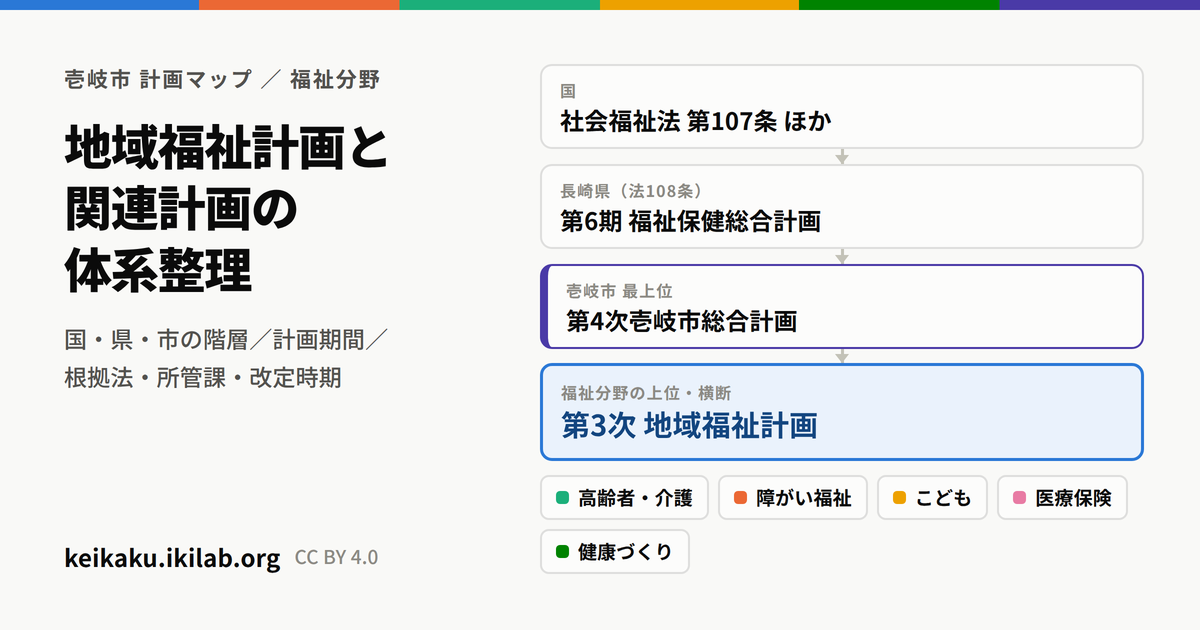
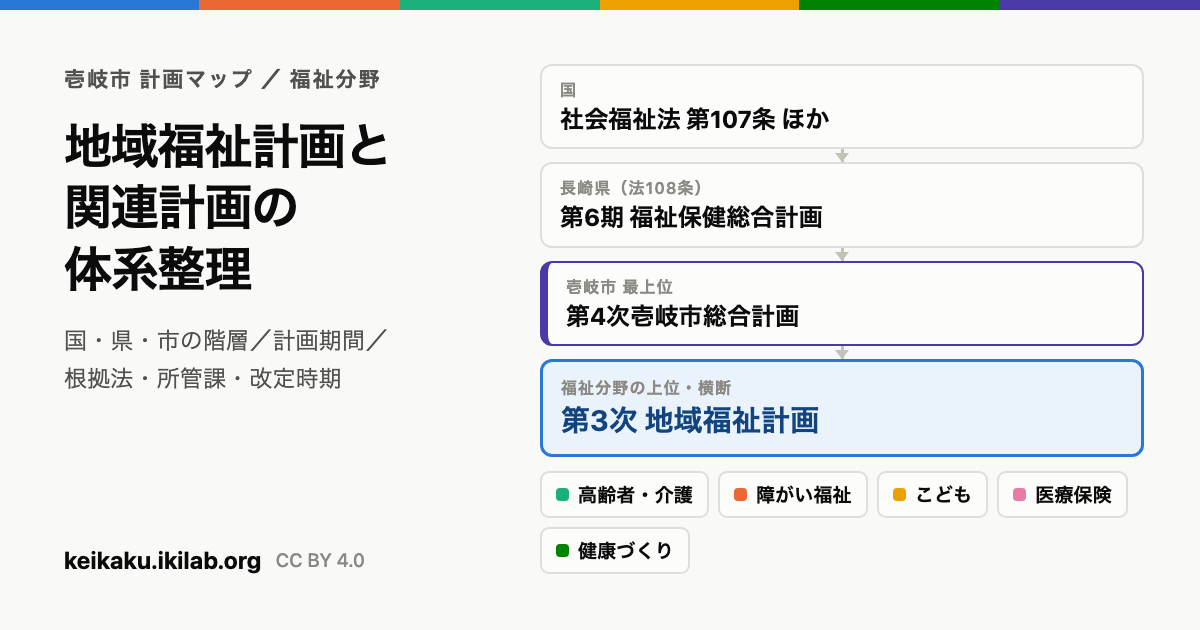
介護保険ページの呼称統一と、断定的な文言の見直し
呼称を「第7期・第8期の検証」に統一。同一ページに「第7・8期」
「第7期・第8期」「第7〜9期」の3系統が混在していた。検証対象は
第7期・第8期で、第9期は実績の出典および帰結として登場するため、
「第7〜9期」は検証範囲を過大に見せていた。URLは公開済みのため
/plans/kaigo-7-9/ のまま。OG画像も再生成。

あわせて、原因の断定や評価と読める表現を10箇所直した。とくに
「特定施設の給付費は…と低調」は壱岐市立老人ホーム1施設に紐づき
事業所の運営評価と読めるため、DISCLAIMER.md の方針に沿って
計画比の数値の提示に改めた。「周知手法そのものが機能していない」
「どう評価するかが問われます」も、公開資料では特定できない因果の
断定だったため、検討材料と要因分析の提案に改めた。

.gitignore を追加し、OG画像生成にだけ使う playwright の
ローカル環境を追跡しないようにした。

diff --git a/plans/kaigo-7-9/index.html b/plans/kaigo-7-9/index.html
@@ -3,7 +3,7 @@
 <head>
 <meta charset="utf-8">
 <meta name="viewport" content="width=device-width, initial-scale=1">
-<title>壱岐市 介護保険事業計画 第7・8期の検証 | 壱岐市 計画マップ</title>
+<title>壱岐市 介護保険事業計画 第7期・第8期の検証 | 壱岐市 計画マップ</title>
 <meta name="description" content="長崎県壱岐市の介護保険事業計画 第7期（H30〜R2）・第8期（R3〜R5）について、計画の前提条件と立案内容を、後継計画・決算・厚生労働省統計に表れた実績と突き合わせて検証。認定者数の推計精度、給付費の計画差、施設整備の実現状況、事業目標の達成率、保険料と準備基金の動き。">
 <link rel="canonical" href="https://keikaku.ikilab.org/plans/kaigo-7-9/">
 <meta property="og:type" content="article">
@@ -172,7 +172,7 @@ footer a{border-bottom-color:var(--grid)}
     <div class="tile"><div class="v">±0<small>円</small></div><div class="k">第9期の保険料<br>6,490円で<b>据置き</b>（第8期と同額）</div></div>
     <div class="tile"><div class="v">0<small>円</small></div><div class="k">認知症対応型通所介護の給付実績<br>第7期に整備を計画したが<b>6年間ゼロ</b></div></div>
   </div>
-  <p class="sub" style="margin-top:16px">両期を通じて見えるのは、<b>①認定者数の見通しが両期とも外れた（第7期は減ると見て増え、第8期は増えると見て減った）</b>、<b>②総額の給付費は±5%に収まるがサービス別の乖離は大きい</b>、<b>③離島ゆえに立ち上がらないサービスが固定化している</b>、<b>④財政は保守的に設計され結果的に基金が積み上がり第9期の据置きにつながった</b>、<b>⑤体制整備系の目標は達成できても住民への浸透系の目標は計画倒れになりやすい</b>、の5点です。</p>
+  <p class="sub" style="margin-top:16px">両期を通じて見えるのは、<b>①認定者数は両期とも計画値と実績が逆方向に乖離した（第7期は減少見込みに対し実績は横ばい〜微増、第8期は増加見込みに対し実績は横ばい〜微減）</b>、<b>②総額の給付費は±5%に収まるがサービス別の乖離は大きい</b>、<b>③離島ゆえに立ち上がらないサービスが固定化している</b>、<b>④財政は保守的に設計され結果的に基金が積み上がり第9期の据置きにつながった</b>、<b>⑤体制整備系の目標は達成される一方、住民への浸透を測る目標は達成率が低い</b>、の5点です。</p>
 </section>
 
 <!-- 2. 前提条件 -->
@@ -191,7 +191,7 @@ footer a{border-bottom-color:var(--grid)}
       <tr><td class="k">ニーズ調査</td><td>介護予防・日常生活圏域ニーズ調査（H29.8、郵送1,500件／回収797件・<b>53.0%</b>）＋在宅介護実態調査（H28.12〜H29.3、347件・100%）</td><td>同ニーズ調査（R2.8〜9、郵送1,498件／回収762件・<b>50.9%</b>）＋在宅介護実態調査（R元.10〜R2.3、386件・100%）</td></tr>
       <tr><td class="k">調査で見えた課題</td><td>近隣への相談は15%前後にとどまる／地域活動への参加意向47.9%に対し世話役意向27.5%／介護しながら就労33.5%</td><td>認知症の相談窓口を知っている <b>27.6%</b>／地域包括ケアシステムを「言葉も内容も知っている」<b>22.2%</b>／ほとんど外出しない16.5%</td></tr>
       <tr><td class="k">コロナの織り込み</td><td>―</td><td>計画本文に「新型コロナ」の語は<b>一度も登場しない</b>。議会説明で「コロナと令和2年7月豪雨を受け、平時からの災害・感染症対策を追加」と説明され、施策として新設された。給付費推計への織り込みは確認できず</td></tr>
-      <tr><td class="k">積み残しの課題</td><td>養護老人ホーム（定員110）の入所待機 <b>208人</b>（H28年度末）／認知症対策・在宅医療連携・介護離職</td><td>同待機 <b>223人</b>（R元年度末、悪化）／介護人材不足／二次離島 三島地区（高齢化率<b>46.9%</b>）への事業者参入困難</td></tr>
+      <tr><td class="k">積み残しの課題</td><td>養護老人ホーム（定員110）の入所待機 <b>208人</b>（H28年度末）／認知症対策・在宅医療連携・介護離職</td><td>同待機 <b>223人</b>（R元年度末、15人増）／介護人材不足／二次離島 三島地区（高齢化率<b>46.9%</b>）への事業者参入困難</td></tr>
       <tr><td class="k">保険料算定の諸元</td><td>総給付費見込 9,983百万円／第1号負担割合 23%／<b>基金取崩し 60百万円</b>／予定収納率 <b>98.55%</b>／補正被保険者数 23,577人</td><td>事業費見込 10,804百万円／23%／<b>基金取崩し 23百万円（残高全額）</b>／予定収納率 <b>99.07%</b>／補正被保険者数 24,772人</td></tr>
       <tr><td class="k">保険料基準額</td><td><b>月6,145円</b>（年73,700円）・9段階<br><span class="mut">第6期5,262円から +883円 / +16.8%</span></td><td><b>月6,490円</b>（年77,800円）・9段階<br><span class="mut">第7期から +345円 / +5.6%</span></td></tr>
     </tbody>
@@ -242,8 +242,8 @@ footer a{border-bottom-color:var(--grid)}
     <h2>Ⅲ. 結果どうなったか</h2>
   </div>
 
-  <h3>① 認定者数 ― 両期とも見通しを外している</h3>
-  <p class="sub">第7期は「減少」を見込んだが実績は横ばい〜微増。第8期は「増加・認定率23.4%へ」を見込んだが実績は22%台で横ばい〜微減。人口推計はおおむね当たっているのに、<b>認定率の見通しが両方向にぶれている</b>。</p>
+  <h3>① 認定者数 ― 計画値と実績が両期とも逆方向に乖離</h3>
+  <p class="sub">第7期は「減少」を見込んだが実績は横ばい〜微増。第8期は「増加・認定率23.4%へ」を見込んだが実績は22%台で横ばい〜微減。人口推計はおおむね実績に近い一方、<b>乖離の方向が期によって逆になっている</b>。</p>
   <div class="chart" id="ch1"></div>
   <div class="legend">
     <span><i style="background:var(--c1)"></i>実績（介護保険事業状況報告）</span>
@@ -295,7 +295,7 @@ footer a{border-bottom-color:var(--grid)}
   </table></div>
   <p class="cap">市議会での公式説明 ── 令和4年度「新型コロナにおける2回にわたる感染の大きな波により訪問通所サービス及びショートステイの利用控えや受入れ自粛が大きく影響」／令和5年度「感染症法上の5類に移行して行動制限等がなくなったことから利用者が増え増額」。</p>
 
-  <h3>③ 施設整備 ― 「作ったもの」と「作れなかったもの」</h3>
+  <h3>③ 施設整備 ― 「実現したもの」と「実現しなかったもの」</h3>
   <div class="tblwrap"><table>
     <thead><tr><th style="min-width:220px">計画された整備</th><th>期</th><th style="min-width:290px">結果</th><th>判定</th></tr></thead>
     <tbody>
@@ -305,16 +305,16 @@ footer a{border-bottom-color:var(--grid)}
       <tr><td class="k">通所介護 定員12名増</td><td class="nw">第7期</td><td>給付費は3年とも計画割れ（93.6%→83.0%→72.8%）。定員増の効果は給付費に表れていない</td><td><span class="pill w">効果不明</span></td></tr>
       <tr><td class="k">介護医療院（見込量0で計上）</td><td class="nw">第7期</td><td>計画0円に対し H30 3,162／R元 10,924／R2 15,542千円の実績。裏側で介護療養型医療施設が計画比16〜32%に急減。<b>計画に織り込んでいない転換が起きた</b></td><td><span class="pill w">計画外</span></td></tr>
       <tr><td class="k">新規整備なし（既存事業の充実）</td><td class="nw">第8期</td><td>方針どおり新規整備なし</td><td><span class="pill g">計画どおり</span></td></tr>
-      <tr><td class="k">壱岐市立老人ホームの<br>一般型特定施設への移行（R5.4）</td><td class="nw">第8期</td><td>実現の有無を公表資料から確認できず。特定施設入居者生活介護の給付費は R3 80.5%・R4 75.7%と低調</td><td><span class="pill w">確認できず</span></td></tr>
+      <tr><td class="k">壱岐市立老人ホームの<br>一般型特定施設への移行（R5.4）</td><td class="nw">第8期</td><td>実現の有無を公表資料から確認できず。特定施設入居者生活介護の給付費は計画比 R3 80.5%・R4 75.7%（移行が未実施であれば、計画値を下回るのは前提どおり）</td><td><span class="pill w">確認できず</span></td></tr>
     </tbody>
   </table></div>
   <p class="cap">給付費実績が一貫して0円＝市内に事業所がないサービス：認知症対応型通所介護、小規模多機能型居宅介護、看護小規模多機能型居宅介護、地域密着型介護老人福祉施設、地域密着型特定施設。第9期でようやく<b>令和8年度に小規模多機能型居宅介護を公募整備し令和9年度サービス開始</b>を掲げた。</p>
 
-  <h3>④ 事業目標の達成状況 ― 体制は整うが、住民への浸透は届かない</h3>
+  <h3>④ 事業目標の達成状況 ― 体制整備の目標は達成、住民への浸透を測る目標は未達</h3>
   <p class="sub">第8期計画が令和5年度に置いた目標値と、第9期計画に載った令和5年度実績見込の比較。</p>
   <div id="ach"></div>
   <p class="cap">縦線＝目標値（100%）。年12枚→6枚に縮小した入湯優待券など、制度自体を変更した指標は比較対象から除外。</p>
-  <p class="sub" style="margin-top:12px">傾向は明快で、<b>認知症カフェの設置・介護予防教室の開催・ケアマネ支援といった「行政が直接やること」は目標を超え、サポーター養成・認知機能チェック・医療連携の連絡票といった「市民や関係機関を巻き込むこと」は大幅未達</b>。実際、ニーズ調査の「認知症の相談窓口を知っている」は第8期策定時の27.6%から<b>25.8%へ低下</b>しています（地域包括ケアシステムの認知度は22.2%→27.8%と改善）。</p>
+  <p class="sub" style="margin-top:12px">傾向は明快で、<b>認知症カフェの設置・介護予防教室の開催・ケアマネ支援といった「行政が直接やること」は目標を超え、サポーター養成・認知機能チェック・医療連携の連絡票といった「市民や関係機関を巻き込むこと」は目標値を大きく下回る</b>。実際、ニーズ調査の「認知症の相談窓口を知っている」は第8期策定時の27.6%から<b>25.8%へ低下</b>しています（地域包括ケアシステムの認知度は22.2%→27.8%と改善）。</p>
 
   <h3>⑤ 財政 ― 保守的な設計が第9期の据置きを生んだ</h3>
   <div class="tblwrap"><table>
@@ -336,13 +336,13 @@ footer a{border-bottom-color:var(--grid)}
     <p class="sub">第9期は令和8年度末で満了。令和8年度中の改定作業で扱うことになる論点。</p>
   </div>
   <ol class="notes">
-    <li><span class="tag a">再発</span><b>認定者数の推計精度。</b>第7期は減少を見込んで実績が上回り（対計画103〜106%）、第8期は増加を見込んで実績が下回った（97〜99%）。人口推計自体は実績に近いので、ぶれているのは<b>認定率の見通し</b>です。第9期がどう置いたかを検証したうえで、直近の22%台前半での横ばいという実績をどう反映するかが焦点になります。</li>
+    <li><span class="tag a">再発</span><b>認定者数の推計精度。</b>第7期は減少を見込んで実績が上回り（対計画103〜106%）、第8期は増加を見込んで実績が下回った（97〜99%）。人口推計自体は実績に近いので、乖離しているのは<b>認定率の見通し</b>です。第9期がどう置いたかを検証したうえで、直近の22%台前半での横ばいという実績をどう反映するかが焦点になります。</li>
     <li><b>「整備を計画したが立ち上がらないサービス」の扱い。</b>認知症対応型通所介護は第7期で定員12名の開始を計画しながら6年間ゼロ。小規模多機能・看多機・地域密着型特養も一貫してゼロで、離島ゆえに事業者が参入しない構造が固定化しています。第9期が令和8年度に小規模多機能の公募整備を掲げているので、<b>その公募が成立するかどうか</b>が次期計画の前提を左右します。</li>
     <li><b>コロナ期の給付費実績をどう扱うか。</b>第8期の実績はR3・R4がコロナで押し下げられ、R5に反動増しています。この3年を素直にトレンドとして使うと次期の見込量を過小に見積もるおそれがあり、<b>どの年度を基準線に置くかの判断</b>が必要です。</li>
-    <li><b>啓発・普及型の目標設定の見直し。</b>認知症サポーター養成400人に対し実績150人、医療予防連携の連絡票15件に対し1件など、住民・関係機関を巻き込む目標が大幅未達です。目標値の置き方（そもそも過大でなかったか）と、達成手段の設計の両面を見直す余地があります。認知症の相談窓口の認知度が27.6%→25.8%へ低下している点は、周知手法そのものが機能していないことを示唆します。</li>
-    <li><b>養護老人ホームの待機者対策。</b>定員110に対し待機208人（H28年度末）→223人（R元年度末）と悪化し、第8期が掲げた一般型特定施設への移行（R5.4開始目標）の実現も公表資料では確認できません。第10期に持ち越すなら、まず現状の到達点を確認する必要があります。</li>
-    <li><b>認定率が県平均より約3ポイント高い理由の分析。</b>調整済み認定率でも軽度＋0.6pt・重度＋0.4ptと県を上回っています。第7期が「自立支援・重度化防止に向けた取組を推進することを目標とする」と明記して以降、この構造が変わっていないことをどう評価するかが問われます。</li>
-    <li><span class="tag">記録</span><b>過去の計画書が市サイトから消えている。</b>第7期・第8期の計画本体は市の計画ページから削除されており、第8期は令和3年3月市議会の<a href="https://www.city.iki.nagasaki.jp/material/files/group/3/3gatugian-2.pdf" target="_blank" rel="noopener">議案第16号添付資料</a>としてのみ全文が残っている状態です（第7期は国立国会図書館WARPの魚拓）。計画のPDCAを外部から検証しづらい状態になっており、過去計画のアーカイブ公開は改善余地があります。</li>
+    <li><b>啓発・普及型の目標設定の見直し。</b>認知症サポーター養成400人に対し実績150人、医療予防連携の連絡票15件に対し1件など、住民・関係機関を巻き込む目標が目標値を大きく下回っています。目標値の水準が実行可能な範囲だったかと、達成手段の設計の両面を検証する余地があります。認知症の相談窓口の認知度が27.6%→25.8%と横ばい〜微減にとどまる点は、周知手法の見直しを検討する材料になります（郵送・回収率50%前後の標本調査のため、この幅は誤差の範囲にも入りうる）。</li>
+    <li><b>養護老人ホームの待機者対策。</b>定員110に対し待機208人（H28年度末）→223人（R元年度末）と増加し、第8期が掲げた一般型特定施設への移行（R5.4開始目標）の実現も公表資料では確認できません。第10期に持ち越すなら、まず現状の到達点を確認する必要があります。</li>
+    <li><b>認定率が県平均より約3ポイント高い理由の分析。</b>調整済み認定率でも軽度＋0.6pt・重度＋0.4ptと県を上回っています。第7期が「自立支援・重度化防止に向けた取組を推進することを目標とする」と明記して以降もこの水準が続いており、要因の分析が第10期の前提になります。</li>
+    <li><span class="tag">記録</span><b>過去の計画書が市サイトで公開されていない。</b>第7期・第8期の計画本体は市の計画ページから削除されており、第8期は令和3年3月市議会の<a href="https://www.city.iki.nagasaki.jp/material/files/group/3/3gatugian-2.pdf" target="_blank" rel="noopener">議案第16号添付資料</a>としてのみ全文が残っている状態です（第7期は国立国会図書館WARPの魚拓）。計画のPDCAを外部から検証しづらい状態になっており、過去計画のアーカイブ公開は改善余地があります。</li>
   </ol>
 </section>
 

diff --git a/index.html b/index.html
@@ -116,13 +116,13 @@ footer{margin-top:44px;padding-top:20px;border-top:1px solid var(--grid);color:v
 
   <a class="card" href="plans/kaigo-7-9/">
     <div class="k">介護保険</div>
-    <h3>介護保険事業計画 第7〜9期の検証</h3>
+    <h3>介護保険事業計画 第7期・第8期の検証</h3>
     <p>前提 → 計画 → 実施 → 成果の順に、計画書の見込値と、後継計画・決算・厚生労働省統計に表れた実績を突き合わせています。認定者数の推計精度、給付費の計画差、施設整備の実現状況、事業目標の達成率、財政の動きを扱います。</p>
     <div class="tags">
       <span class="tag"><i class="dot" style="background:var(--c3)"></i>高齢者・介護</span>
       <span class="tag">第7期 H30〜R2</span>
       <span class="tag">第8期 R3〜R5</span>
-      <span class="tag">第9期 R6〜R8</span>
+      <span class="tag">実績の出典に第9期計画</span>
     </div>
   </a>
 

diff --git a/tools/og/cards.html b/tools/og/cards.html
@@ -128,7 +128,7 @@ body{background:#555;padding:24px;display:flex;flex-direction:column;gap:24px;al
   <div class="L">
     <div>
       <div class="eyebrow">壱岐市 計画マップ ／ 介護保険</div>
-      <div class="ttl sm">介護保険事業計画<br>第7〜9期の検証</div>
+      <div class="ttl sm">介護保険事業計画<br>第7期・第8期の検証</div>
       <div class="lead">前提 → 計画 → 実施 → 成果。<br>計画値と、決算・統計に表れた<br>実績の突合。</div>
     </div>
     <div class="foot"><span class="dom">keikaku.ikilab.org</span><span class="by">CC BY 4.0</span></div>

diff --git a/CHANGELOG.md b/CHANGELOG.md
@@ -3,6 +3,24 @@
 日付は改訂日。内容を変えたら1行足してください。
 `data/plans.yml` の `meta.updated` と、各HTMLのヘッダにある調査基準日も合わせて更新します。
 
+## 2026-08-12
+
+### 修正
+- 介護保険ページの呼称を **「第7期・第8期の検証」に統一**（`<title>`・ハブのカード・README・SETUP・CHANGELOG・OG画像）
+  - 検証対象は第7期・第8期で、第9期は実績の出典および帰結として登場する。「第7〜9期」は検証範囲を過大に見せていた
+  - 同一ページに「第7・8期」「第7期・第8期」「第7〜9期」の3系統が混在していたのを解消
+  - URL `/plans/kaigo-7-9/` は公開済みのため変更しない
+- 介護保険ページから、**原因の断定や評価と読める表現**を外した（10箇所）
+  - 「見通しを外している」→「計画値と実績が逆方向に乖離」、「計画倒れ」→「達成率が低い」、「悪化」→「増加」、「作れなかったもの」→「実現しなかったもの」、「大幅未達」→「目標値を大きく下回る」、「市サイトから消えている」→「市サイトで公開されていない」
+  - 「特定施設の給付費は…と低調」は、壱岐市立老人ホーム1施設に紐づき事業所の運営評価と読めるため、計画比の数値と「移行が未実施であれば計画値を下回るのは前提どおり」に改めた（`DISCLAIMER.md`「特定の法人・事業所の運営やサービスの質を評価するものではない」）
+  - 「周知手法そのものが機能していないことを示唆します」「この構造が変わっていないことをどう評価するかが問われます」は、公開資料では特定できない因果の断定だったため、検討材料の提示と要因分析の提案に改めた。認知度の27.6%→25.8%には標本調査の誤差にも触れる注記を追加
+  - 「保守的な設計が第9期の据置きを生んだ」は肯定的文脈で因果の説明でもあるため据え置き
+
+### 追加
+- `.gitignore`。OG画像の生成にだけ使う playwright のローカル環境を追跡しない
+
+---
+
 ## 2026-08-11
 
 ### 追加
@@ -14,7 +32,7 @@
 - リポジトリを開設（`ikilab-org/iki-plans`）。GitHub Pages + 独自ドメイン（keikaku.ikilab.org）で公開
 - `SETUP.md` 公開までの手順（DNS、HTTPS、Actions の権限、トラブルシューティング）
 - `plans/fukushi/` 福祉分野の計画体系マップ（調査基準日 2026-08-10）
-- `plans/kaigo-7-9/` 介護保険事業計画 第7〜9期の検証（調査基準日 2026-08-10）
+- `plans/kaigo-7-9/` 介護保険事業計画 第7期・第8期の検証（調査基準日 2026-08-10）
 - `data/plans.yml` 計画の構造化データ（市21件・社協1件・県8件。うち未調査 7件）
 - `tools/linkcheck.mjs` 出典URLの死活チェック、週次CI
 - `tools/expiring.mjs` 満了・パブコメが近い計画の検出、月次CI

diff --git a/README.md b/README.md
@@ -18,7 +18,7 @@
 |---|---|
 | [`/`](index.html) | ハブ。分野ごとの入口 |
 | [`/plans/fukushi/`](plans/fukushi/) | **福祉分野の計画体系マップ** — 国・長崎県・市の階層、計画期間タイムライン、一覧、地域福祉計画と個別計画の対応 |
-| [`/plans/kaigo-7-9/`](plans/kaigo-7-9/) | **介護保険事業計画 第7〜9期の検証** — 前提 → 計画 → 実施 → 成果 |
+| [`/plans/kaigo-7-9/`](plans/kaigo-7-9/) | **介護保険事業計画 第7期・第8期の検証** — 前提 → 計画 → 実施 → 成果。実績は第9期計画・決算・統計から取っている |
 | [`/about/license/`](about/license/) | ライセンスと、その選択理由。クレジットの記載例つき |
 
 ## これから増やすもの

diff --git a/SETUP.md b/SETUP.md
@@ -24,7 +24,7 @@ git init -b main
 git add -A
 git commit -m "壱岐市 計画マップ 初版
 
-- 福祉分野の計画体系マップ、介護保険 第7〜9期の検証
+- 福祉分野の計画体系マップ、介護保険 第7期・第8期の検証
 - data/plans.yml に計画の構造化データ
 - 出典URLの死活チェックと改定期の検出をCI化
 - CC BY 4.0（文章・図表・データ）＋ MIT（コード）"
